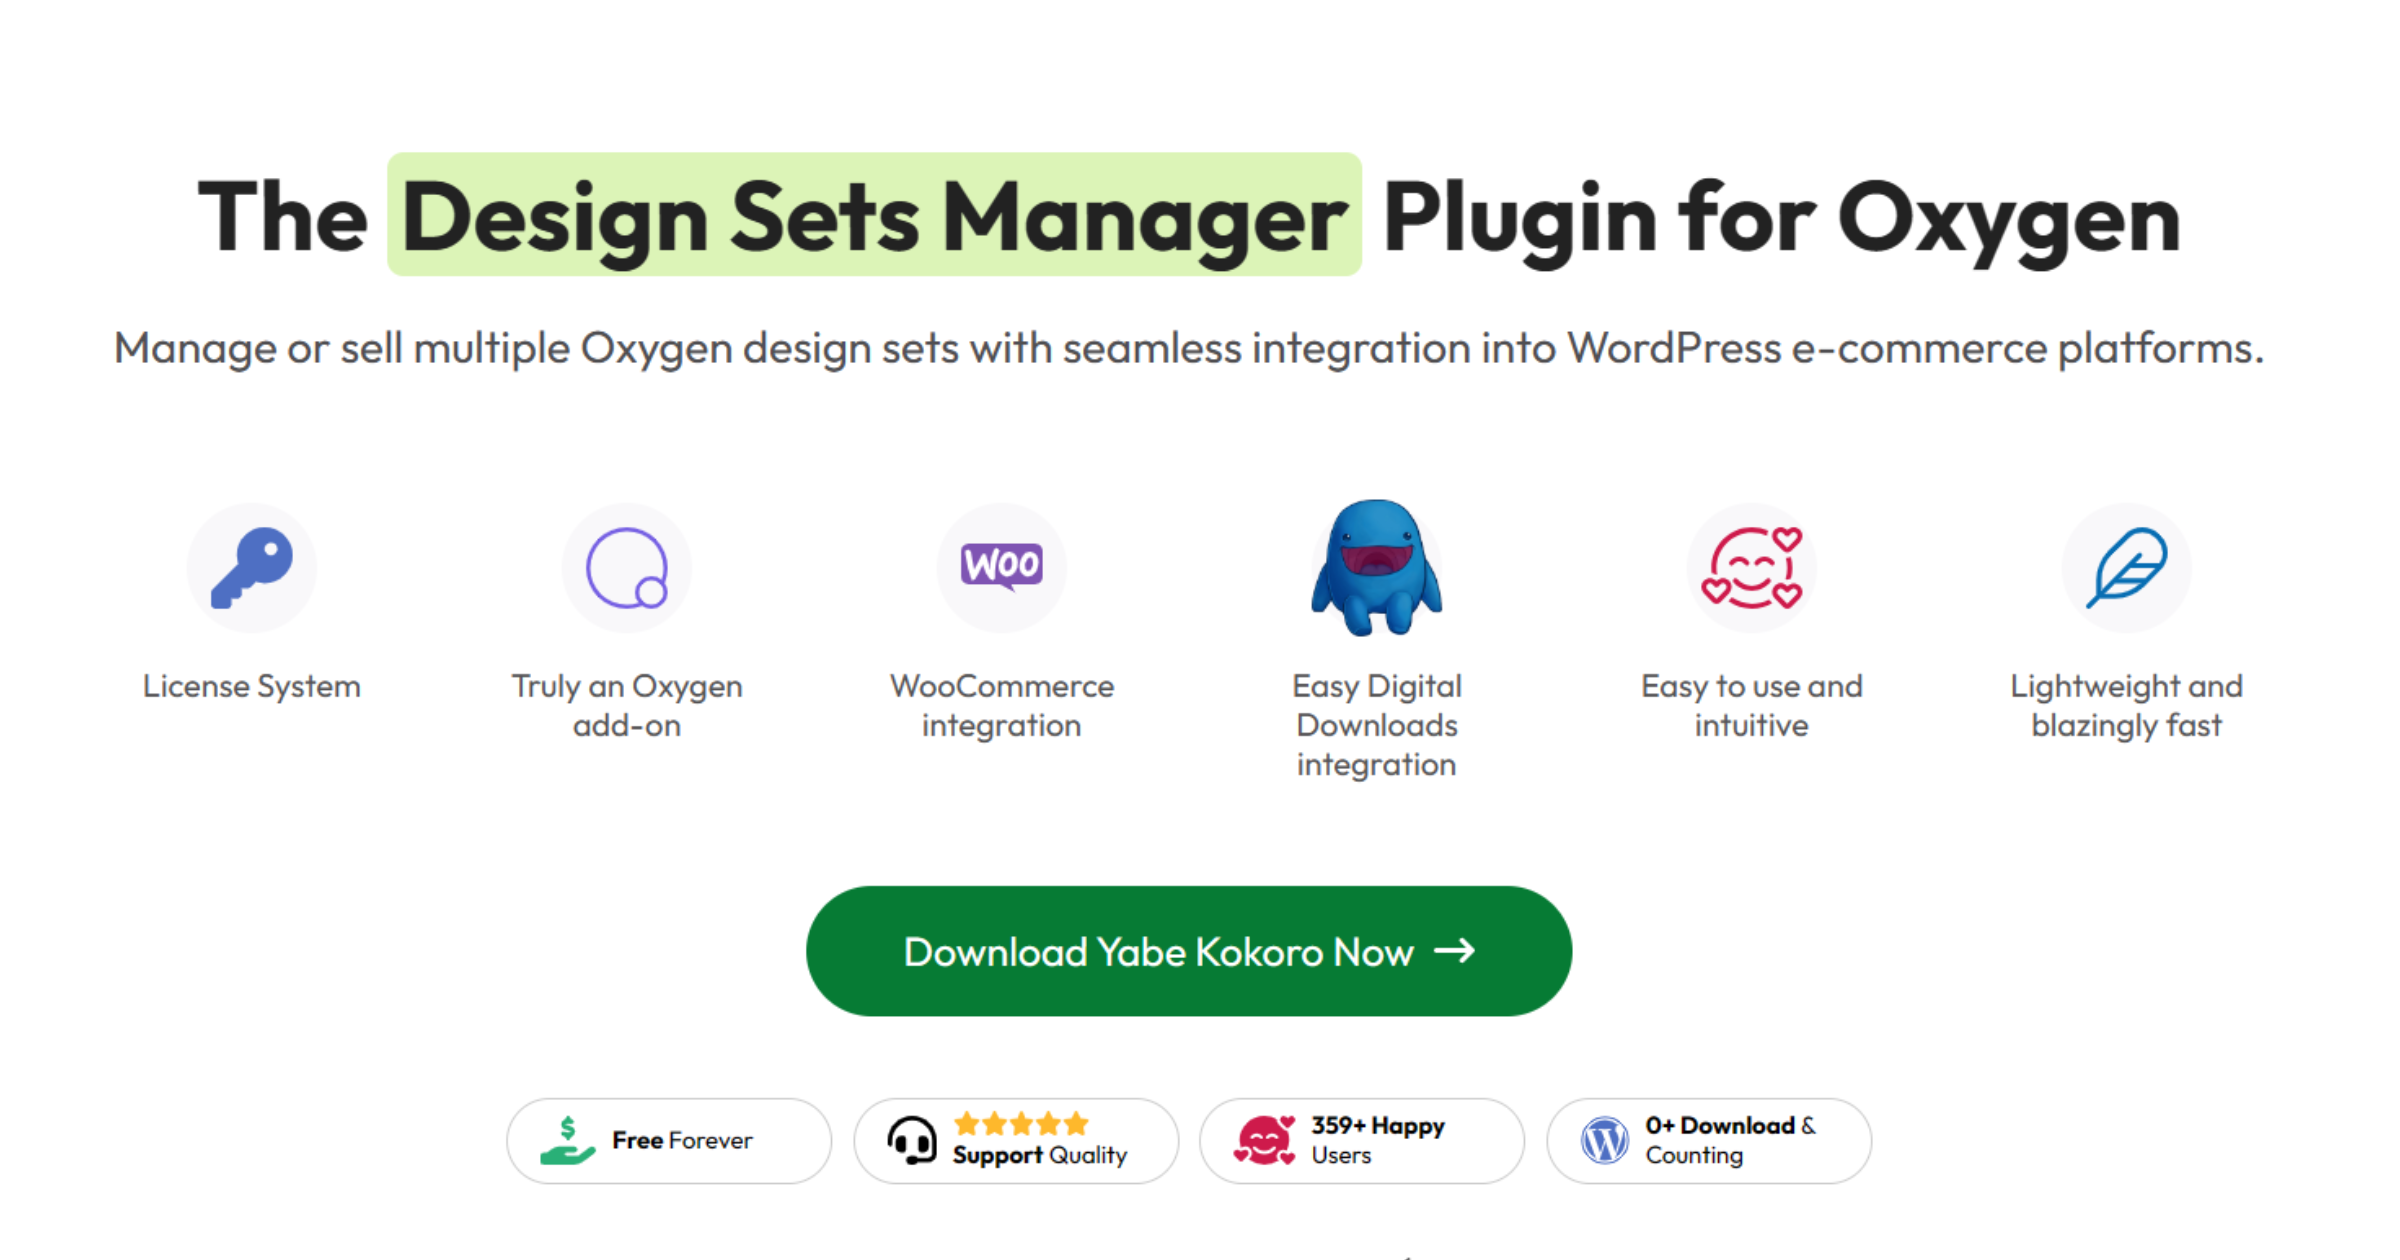
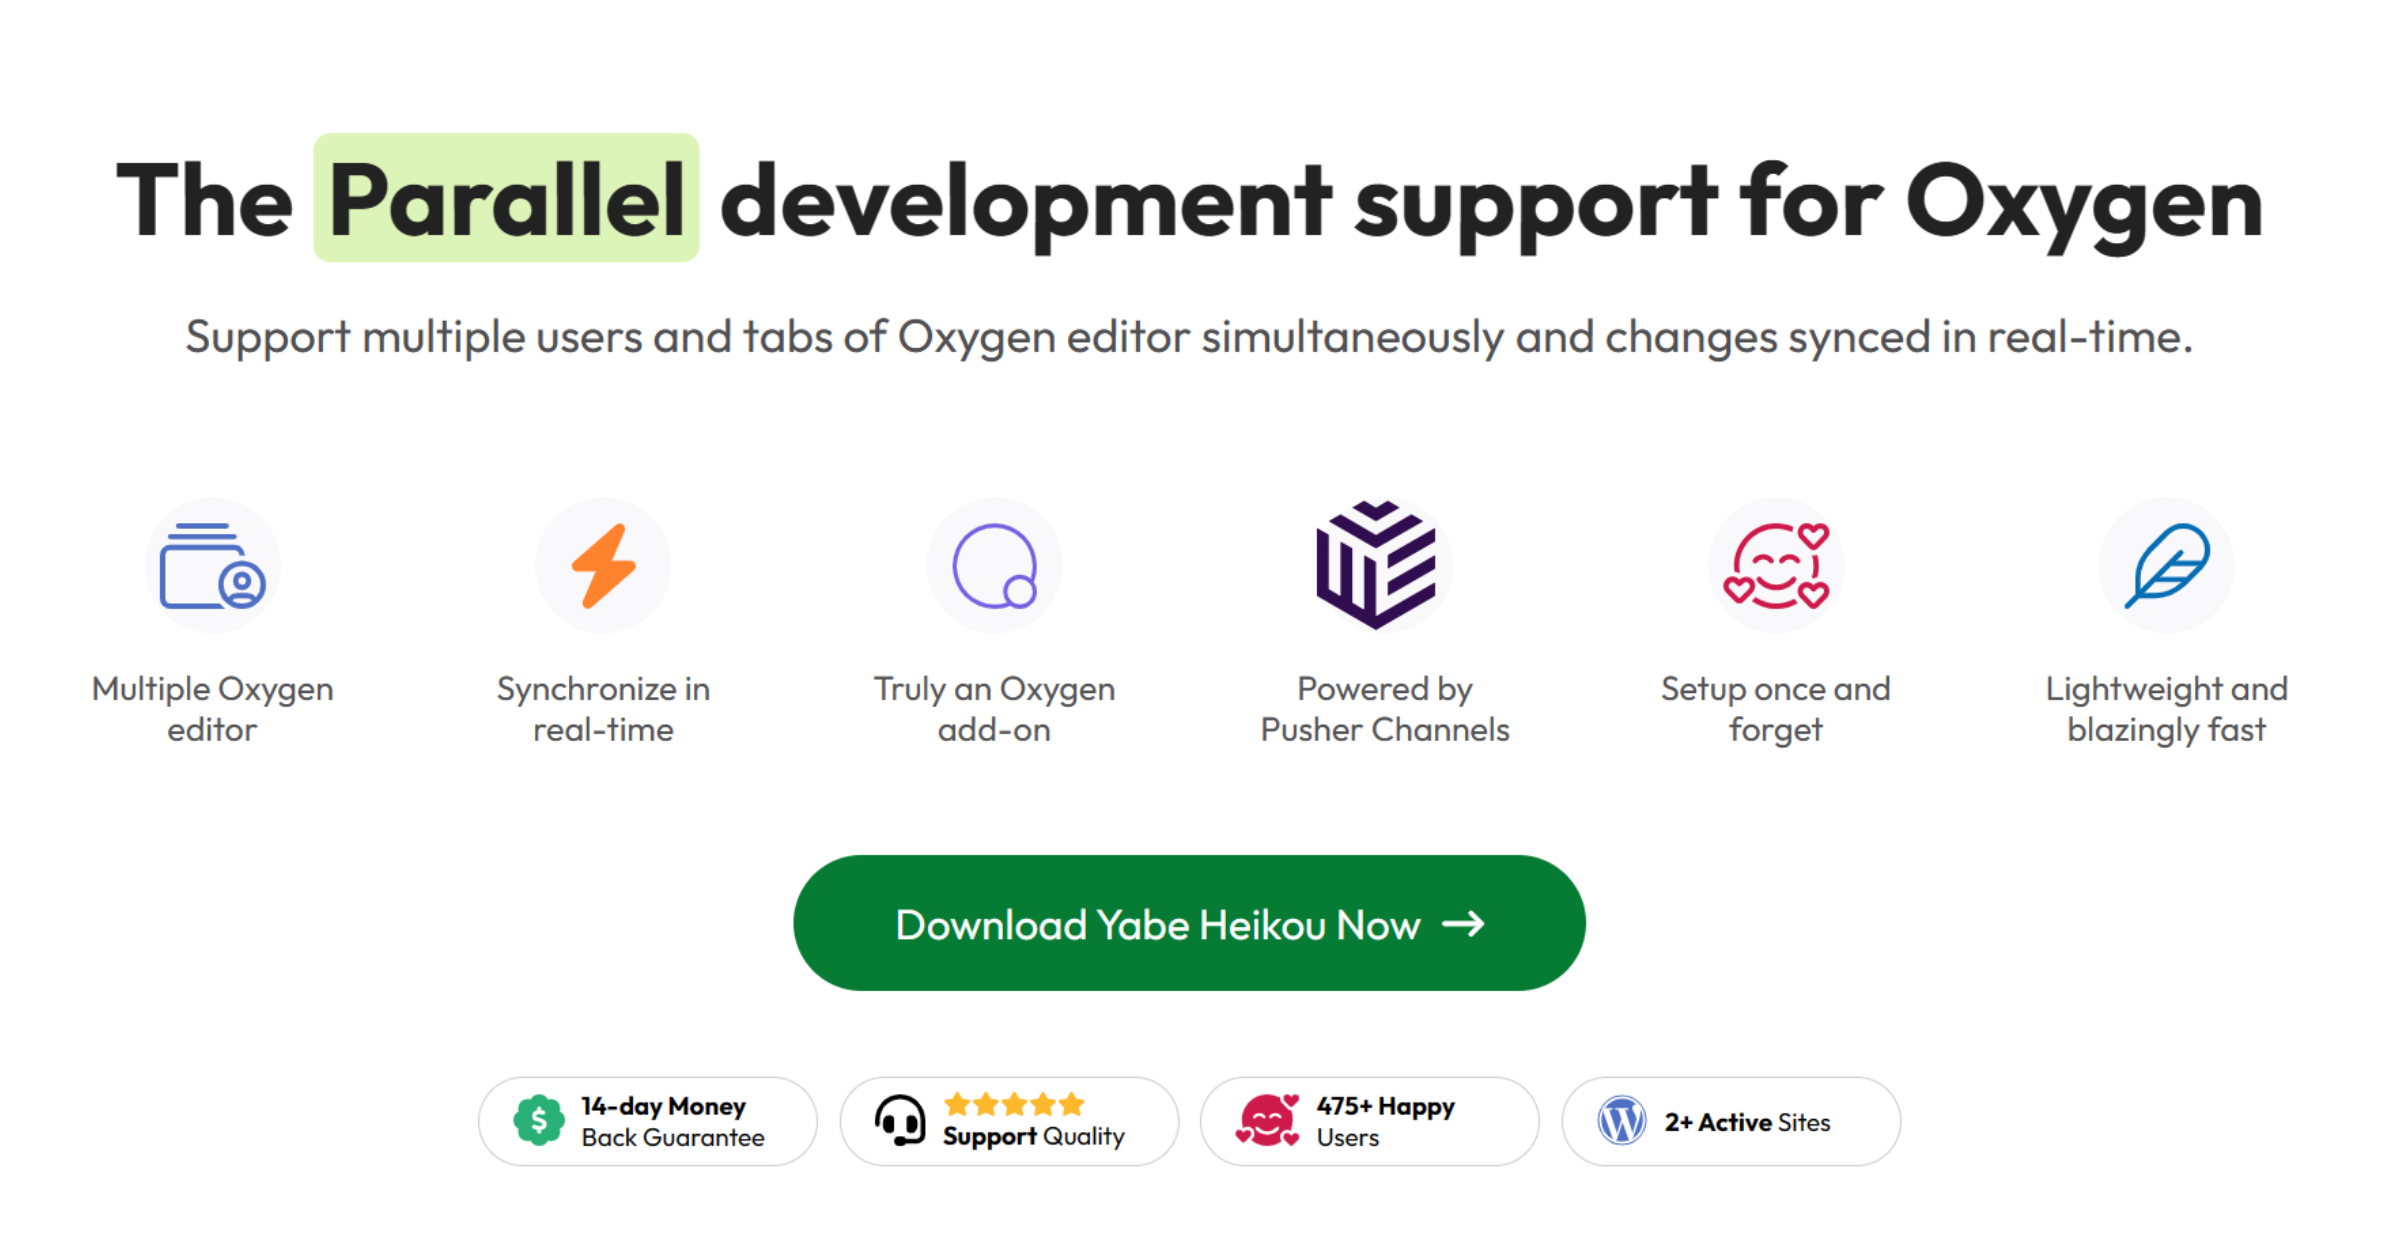
add configuration submenu

diff --git a/src/i18n/en/nav.ts b/src/i18n/en/nav.ts
@@ -11,13 +11,5 @@ export default [
 	{ text: 'Getting Started', header: true, type: 'learn', key: 'startHere' },
 	{ text: 'Introduction', slug: 'introduction', key: 'introduction' },
 	{ text: 'Installation', slug: 'install', key: 'install' },
-
-	{ text: 'License System', header: true, type: 'learn', key: 'licenseSystem' },
-	{ text: 'License', slug: 'license/license', key: 'license/license' },
-	{ text: 'Remote', slug: 'license/remote', key: 'license/remote' },
-
-	{ text: 'E-commerce', header: true, type: 'learn', key: 'e-commerce' },
-	{ text: 'WooCommerce', slug: 'e-commerce/woocommerce', key: 'e-commerce/woocommerce' },
-	{ text: 'Easy Digital Downloads', slug: 'e-commerce/easy-digital-downloads', key: 'e-commerce/easy-digital-downloads' },
-
+	{ text: 'Configuration', slug: 'configuration', key: 'configuration' },
 ] as const;

diff --git a/src/components/Landing.vue b/src/components/Landing.vue
@@ -361,7 +361,7 @@
 
             <div class="flex flex:column align-items:center mb:16">
                 <div class="px:16 py:6 r:8 bg:crimson-95 fg:crimson-55 b:1|solid|crimson-65 text:center font:medium ls:2 lh:1.5">
-                    <i class="fa-solid fa-gift fg:crimson pr:6"></i> <span class="ls:1 font:bold">40% off</span> until <span class="ls:1 font:bold">Aug 20</span>, with code: <code class="font:extrabold bg:white">PARALLEL-OXYGEN</code>
+                    <i class="fa-solid fa-gift fg:crimson pr:6"></i> <span class="ls:1 font:bold">40% off</span> until <span class="ls:1 font:bold">Aug 20</span>, with code: <code class="font:extrabold bg:white">DIRGAHAYU-REPLUBIK-INDONESIA</code>
                 </div>
             </div>
 

diff --git a/src/i18n/en/ui.ts b/src/i18n/en/ui.ts
@@ -4,10 +4,10 @@ export default {
 	'navbar.a11yTitle': 'Top',
 	// Site settings
 	'site.title': 'Yabe Heikou Documentation',
-	'site.description': 'The Design Sets Manager Plugin for Oxygen.',
+	'site.description': 'The Parallel development support for Oxygen.',
 	'site.og.imageSrc': '/default-og-image.png',
 	'site.og.imageAlt':
-		'The Design Sets Manager Plugin for Oxygen — Yabe Heikou',
+		'The Parallel development support for Oxygen — Yabe Heikou',
 	// Left Sidebar
 	'leftSidebar.a11yTitle': 'Primary',
 	'leftSidebar.learnTab': 'Learn',
